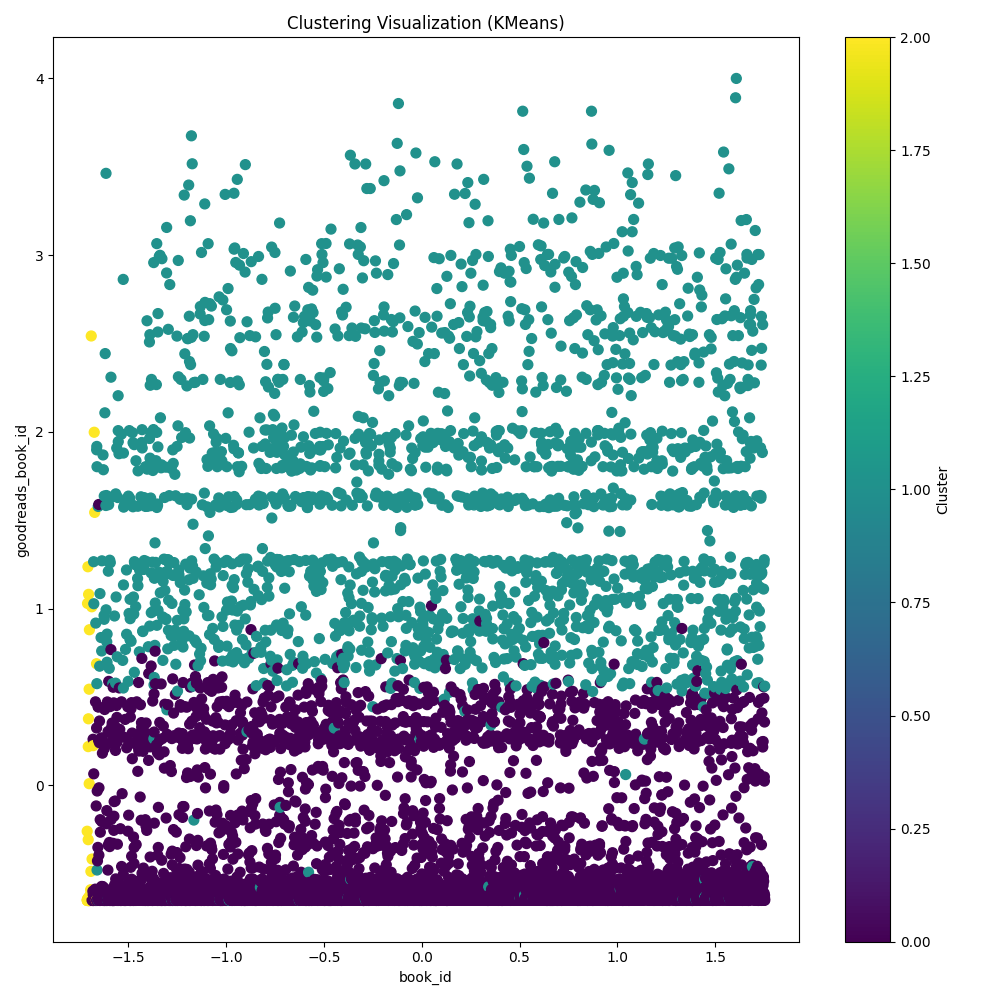
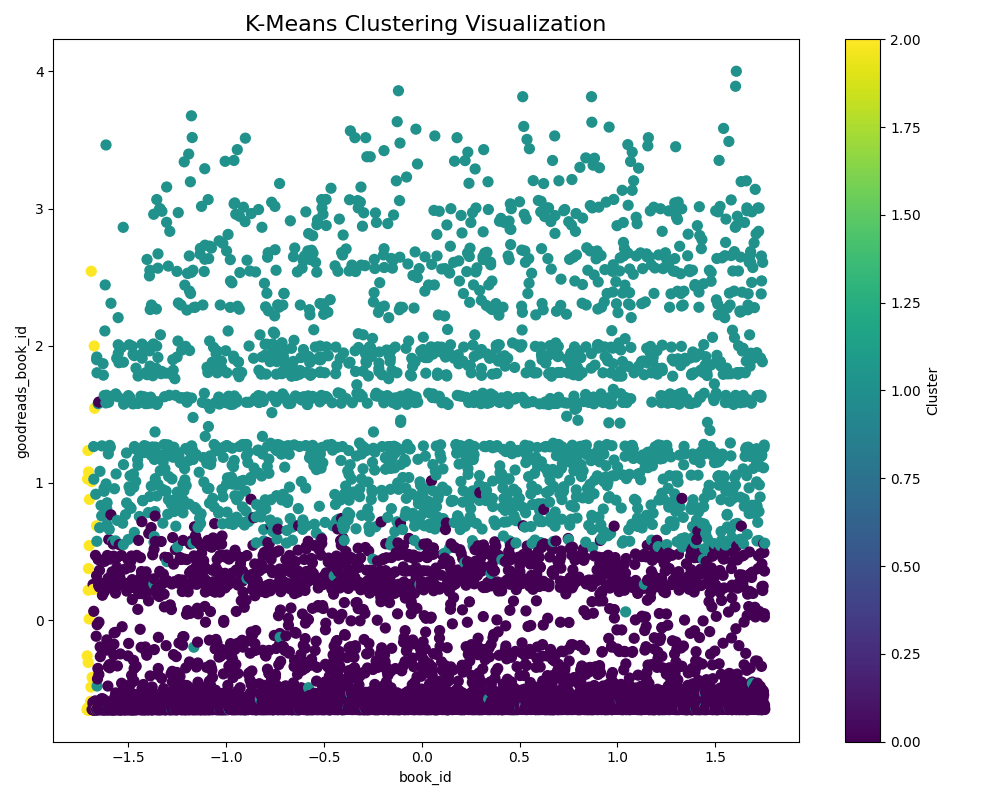
changes3

diff --git a/autolysis.py b/autolysis.py
@@ -8,6 +8,31 @@ import requests
 import sys
 from sklearn.preprocessing import StandardScaler
 from sklearn.cluster import KMeans
+from scipy.stats import normaltest
+
+# Ensure all necessary libraries are installed
+REQUIRED_LIBRARIES = [
+    "pandas",
+    "numpy",
+    "seaborn",
+    "matplotlib",
+    "scikit-learn",
+    "scipy",
+    "requests"
+]
+
+def check_and_install_libraries():
+    """Check and install missing libraries."""
+    import subprocess
+    import importlib
+    for library in REQUIRED_LIBRARIES:
+        try:
+            importlib.import_module(library)
+        except ImportError:
+            print(f"Library {library} not found. Installing...")
+            subprocess.check_call([sys.executable, "-m", "pip", "install", library])
+
+check_and_install_libraries()
 
 # Ensure AIPROXY_TOKEN is set in the environment
 AIPROXY_TOKEN = os.getenv("AIPROXY_TOKEN")
@@ -17,7 +42,7 @@ if not AIPROXY_TOKEN:
 
 API_BASE = "https://aiproxy.sanand.workers.dev/openai/v1"
 
-def generate_llm_story(analysis, images):
+def generate_llm_story(analysis, images, key_insights):
     """
     Generate a narrative about the data analysis using GPT-4o-mini via direct REST API.
     """
@@ -29,23 +54,27 @@ def generate_llm_story(analysis, images):
     prompt = f"""
     You received a dataset with {analysis['rows']} rows and {analysis['columns']} columns.
     The dataset includes columns: {', '.join(analysis['column_names'])}.
-    
-    Based on this dataset, you performed:
+
+    Based on this dataset, the following analyses were performed:
     - Outlier Detection
     - Correlation Analysis
     - Clustering
-    
+    - Normality Test
+
+    Key insights:
+    {key_insights}
+
     Visualizations:
     - Correlation Heatmap: {images['correlation']}
     - Clustering Visualization: {images['clustering']}
 
     Please write a data story that includes:
-    1. The data received, briefly.
-    2. How each analysis was performed.
+    1. A brief description of the dataset.
+    2. Explanation of each analysis and the methods used.
     3. Key insights from the findings.
-    4. Implications and recommendations based on the results.
+    4. Implications and actionable recommendations.
 
-    Use an engaging narrative tone, suitable for presenting findings in a report.
+    Use an engaging narrative tone suitable for a professional report.
     """
 
     payload = {
@@ -67,24 +96,21 @@ def generate_llm_story(analysis, images):
 
 def create_visualizations(df):
     """
-    Generate visualizations for the dataset with larger sizes but low detail.
+    Generate visualizations for the dataset.
     """
-    # Generate a correlation heatmap without numerical annotations (only colors) with borders around tiles
-    plt.figure(figsize=(10, 10), dpi=100)  # Increased figure size (10x10 inches)
-    sns.heatmap(
-        df.select_dtypes(include=[np.number]).corr(),
-        annot=False,  # Remove numerical annotations
-        cmap='coolwarm',  # Color map
-        linewidths=0.5,  # Border thickness around tiles
-        linecolor='black'  # Border color (black)
-    )
+    # Correlation heatmap
+    plt.figure(figsize=(12, 8))
+    correlation_matrix = df.select_dtypes(include=[np.number]).corr()
+    sns.heatmap(correlation_matrix, annot=True, cmap='coolwarm', linewidths=0.5)
     correlation_path = 'correlation_heatmap.png'
-    plt.title('Correlation Heatmap')
+    plt.title('Correlation Heatmap', fontsize=16)
+    plt.xlabel('Features')
+    plt.ylabel('Features')
     plt.tight_layout()
     plt.savefig(correlation_path)
     plt.close()
 
-    # Generate a clustering visualization (low detail with larger size)
+    # Clustering visualization
     numeric_data = df.select_dtypes(include=[np.number]).dropna()
     clustering_path = None
     if numeric_data.shape[1] >= 2:
@@ -93,9 +119,9 @@ def create_visualizations(df):
         kmeans = KMeans(n_clusters=3, random_state=42)
         clusters = kmeans.fit_predict(scaled_data)
 
-        plt.figure(figsize=(10, 10), dpi=100)  # Increased figure size (10x10 inches)
+        plt.figure(figsize=(10, 8))
         plt.scatter(scaled_data[:, 0], scaled_data[:, 1], c=clusters, cmap='viridis', s=50)
-        plt.title('Clustering Visualization (KMeans)')
+        plt.title('K-Means Clustering Visualization', fontsize=16)
         plt.xlabel(numeric_data.columns[0])
         plt.ylabel(numeric_data.columns[1])
         plt.colorbar(label='Cluster')
@@ -106,9 +132,32 @@ def create_visualizations(df):
 
     return correlation_path, clustering_path
 
+def perform_statistical_analysis(df):
+    """
+    Perform statistical analyses including normality tests and outlier detection.
+    """
+    insights = []
+
+    # Normality test for numeric columns
+    numeric_data = df.select_dtypes(include=[np.number])
+    for column in numeric_data.columns:
+        stat, p_value = normaltest(numeric_data[column].dropna())
+        if p_value < 0.05:
+            insights.append(f"Column '{column}' does not follow a normal distribution (p={p_value:.3f}).")
+        else:
+            insights.append(f"Column '{column}' follows a normal distribution (p={p_value:.3f}).")
+
+    # Outlier detection summary
+    outlier_counts = (np.abs((numeric_data - numeric_data.mean()) / numeric_data.std()) > 3).sum()
+    for column, count in outlier_counts.items():
+        if count > 0:
+            insights.append(f"Column '{column}' has {count} outlier(s).")
+
+    return insights
+
 if __name__ == "__main__":
     if len(sys.argv) != 2:
-        print("Usage: python autolysis2.py <path_to_csv_file>")
+        print("Usage: python enhanced_autolysis.py <path_to_csv_file>")
         sys.exit(1)
 
     file_path = sys.argv[1]
@@ -130,6 +179,10 @@ if __name__ == "__main__":
         'summary_statistics': df.describe().to_string()
     }
 
+    # Perform statistical analysis
+    insights = perform_statistical_analysis(df)
+    key_insights = "\n".join(insights)
+
     # Images dictionary for the story
     images = {
         'correlation': correlation_path,
@@ -137,7 +190,7 @@ if __name__ == "__main__":
     }
 
     # Generate the LLM story
-    story = generate_llm_story(analysis, images)
+    story = generate_llm_story(analysis, images, key_insights)
 
     # Generate README content
     readme_content = f"""# Data Analysis Report
